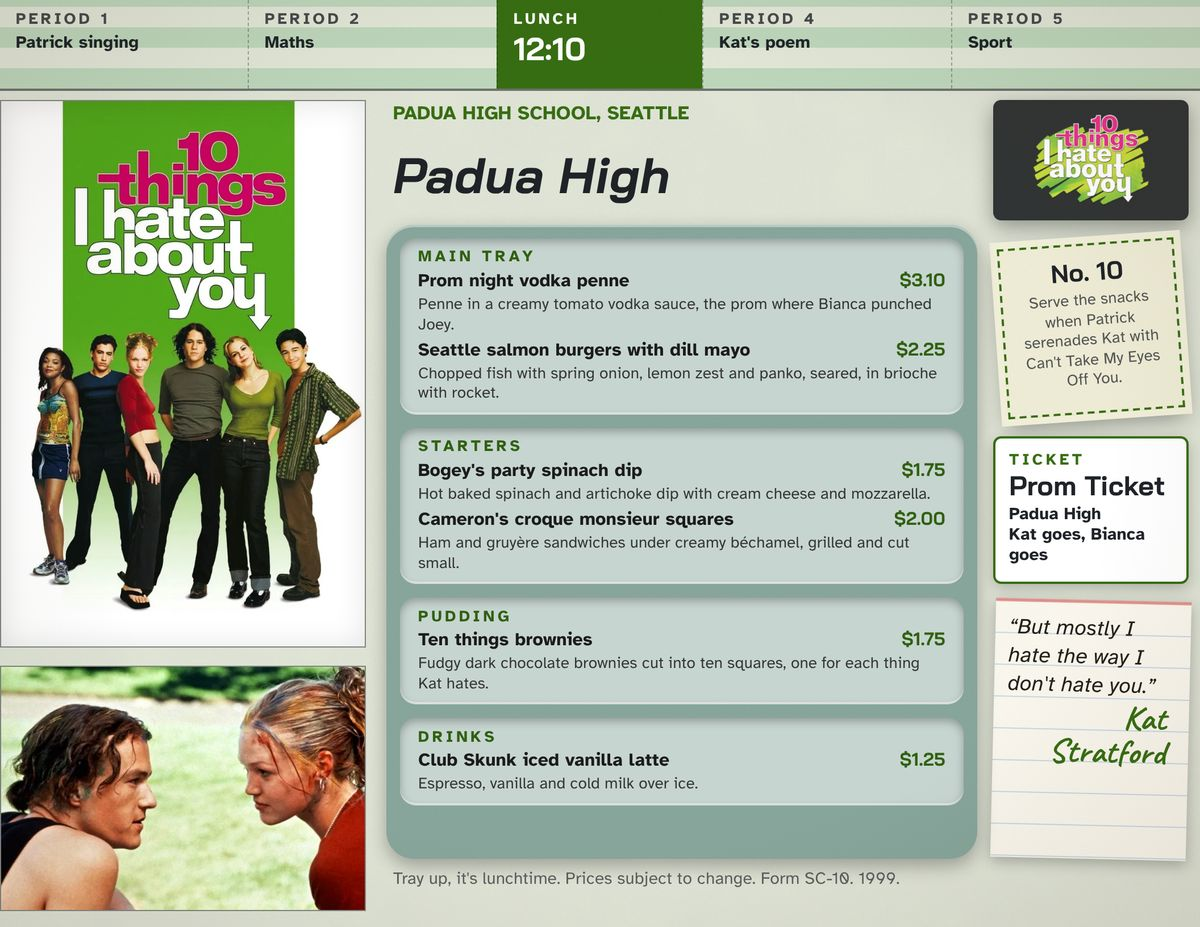
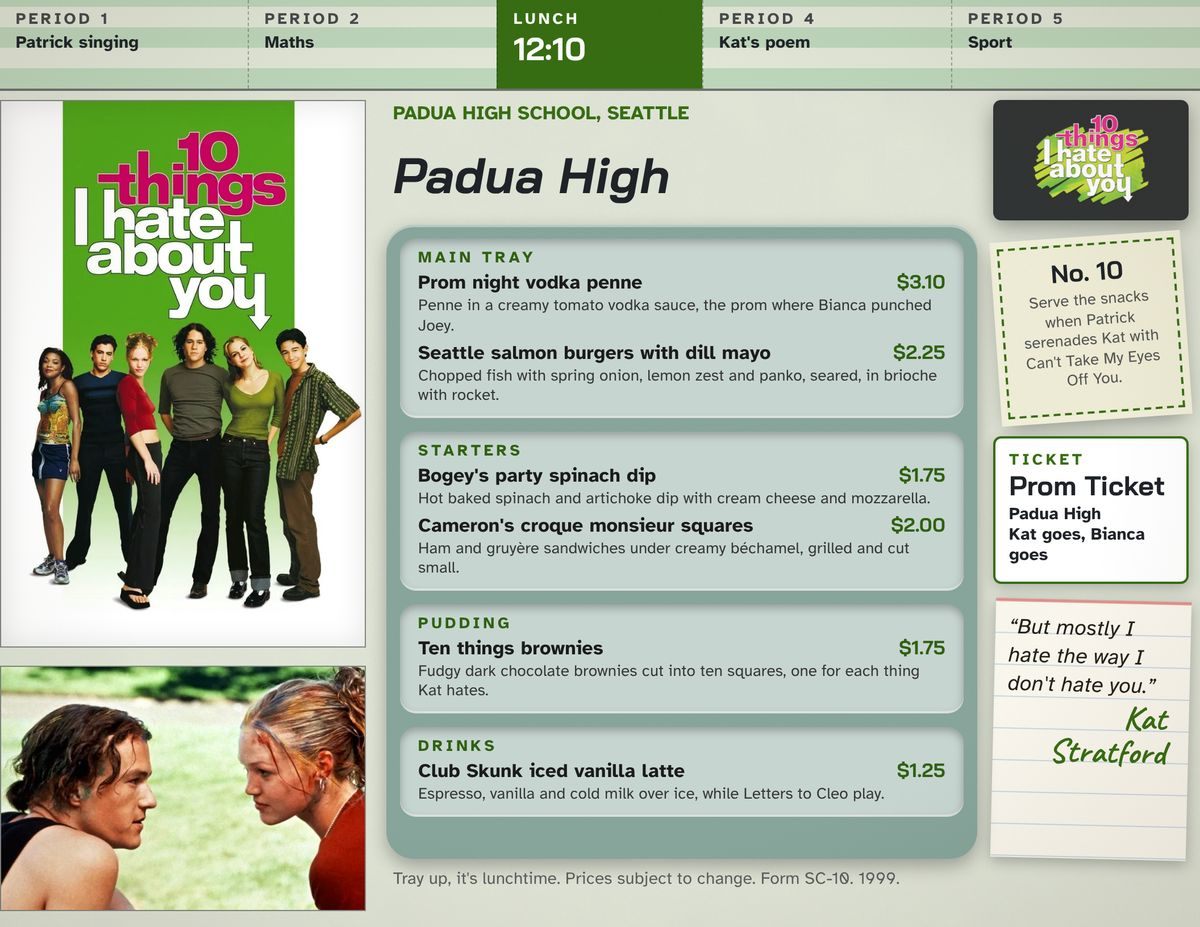
Review 39: checks done, HANDOFF
Claude-Session: https://claude.ai/code/session_01W3UAnAXoqvYGtjTTpoPUh2

Changed region(s): [[0.3392, 0.2718, 0.8017, 0.9061]]

diff --git a/menu/10-things-i-hate-about-you-1999/index.html b/menu/10-things-i-hate-about-you-1999/index.html
@@ -49,7 +49,7 @@ details ul,details ol{margin:8px 0 4px;padding-left:22px}details li{margin:2px 0
 .chips{display:flex;flex-wrap:wrap;gap:8px;list-style:none;padding:0;margin:0}.chips a{display:block;padding:6px 12px;border:1px solid var(--hair);border-radius:999px;text-decoration:none;font-size:15px}
 .letter{font:500 18px/1 "Oswald",sans-serif;color:var(--acc);margin:18px 0 6px}
 footer{border-top:1px solid var(--hair);padding:18px;text-align:center;font-size:13px;color:var(--muted)}footer p{margin:4px 0}</style>
-<script type="application/ld+json">{"@context":"https://schema.org","@graph":[{"@type":"WebPage","@id":"https://reeldinner.com/menu/10-things-i-hate-about-you-1999/","url":"https://reeldinner.com/menu/10-things-i-hate-about-you-1999/","name":"10 Things I Hate About You (1999) movie night dinner menu","description":"10 Things I Hate About You (1999): a movie night menu from Padua High. Recipes for 4 and a printable menu.","inLanguage":"en-AU","isPartOf":{"@type":"WebSite","name":"Reel Dinner","url":"https://reeldinner.com/"},"about":{"@type":"Movie","name":"10 Things I Hate About You","dateCreated":"1999","image":"https://image.tmdb.org/t/p/w500/ujERk3aKABXU3NDXOAxEQYTHe9A.jpg"},"breadcrumb":{"@type":"BreadcrumbList","itemListElement":[{"@type":"ListItem","position":1,"name":"Film menus","item":"https://reeldinner.com/menu/"},{"@type":"ListItem","position":2,"name":"Comedy","item":"https://reeldinner.com/menu/genre/comedy/"},{"@type":"ListItem","position":3,"name":"10 Things I Hate About You (1999)","item":"https://reeldinner.com/menu/10-things-i-hate-about-you-1999/"}]}},{"@type":"ItemList","name":"10 Things I Hate About You (1999) movie night menu","numberOfItems":5,"itemListElement":[{"@type":"ListItem","position":1,"url":"https://reeldinner.com/menu/10-things-i-hate-about-you-1999/#dish-bogey-s-party-spinach-dip","item":{"@type":"Recipe","name":"Bogey's party spinach dip","description":"Hot baked spinach and artichoke dip with cream cheese and mozzarella.","image":["https://reeldinner.com/assets/menu-previews/10-things-i-hate-about-you-1999.jpg"],"author":{"@type":"Organization","name":"Reel Dinner","url":"https://reeldinner.com/"},"recipeCategory":"Appetizer","recipeYield":"4 servings","keywords":"10 Things I Hate About You, movie night, 1999, film menu","prepTime":"PT0M","cookTime":"PT35M","totalTime":"PT35M","suitableForDiet":"https://schema.org/VegetarianDiet","recipeIngredient":["250g cream cheese, softened","100g sour cream","250g frozen spinach, thawed and squeezed dry","1 jar artichoke hearts, drained and chopped","1 garlic clove, crushed","100g mozzarella, grated","1 baguette, sliced and toasted"],"recipeInstructions":[{"@type":"HowToStep","text":"Mix the cream cheese, sour cream, spinach, artichokes, garlic and mozzarella and spoon into a baking dish."},{"@type":"HowToStep","text":"Bake at 190°C until bubbling. Meanwhile slice and toast the baguette."},{"@type":"HowToStep","text":"Serve the dip hot with the toasted baguette."}],"@id":"https://reeldinner.com/menu/10-things-i-hate-about-you-1999/#dish-bogey-s-party-spinach-dip","url":"https://reeldinner.com/menu/10-things-i-hate-about-you-1999/#dish-bogey-s-party-spinach-dip"}},{"@type":"ListItem","position":2,"url":"https://reeldinner.com/menu/10-things-i-hate-about-you-1999/#dish-cameron-s-croque-monsieur-squares","item":{"@type":"Recipe","name":"Cameron's croque monsieur squares","description":"Ham and gruyère sandwiches under creamy béchamel, grilled and cut small.","image":["https://reeldinner.com/assets/menu-previews/10-things-i-hate-about-you-1999.jpg"],"author":{"@type":"Organization","name":"Reel Dinner","url":"https://reeldinner.com/"},"recipeCategory":"Appetizer","recipeYield":"4 servings","keywords":"10 Things I Hate About You, movie night, 1999, film menu","prepTime":"PT7M","cookTime":"PT23M","totalTime":"PT30M","recipeIngredient":["30g butter","1 tbsp plain flour","250ml milk","8 slices white bread","2 tbsp Dijon mustard","200g leg ham","200g gruyère, grated"],"recipeInstructions":[{"@type":"HowToStep","text":"Melt the butter, stir in the flour and cook for a minute. Whisk in the milk and simmer until thick to make the bechamel."},{"@type":"HowToStep","text":"Spread the bread with Dijon and fill with ham and some of the gruyère."},{"@type":"HowToStep","text":"Top with bechamel and the rest of the cheese. Grill until bubbling and golden, then cut into small squares."}],"@id":"https://reeldinner.com/menu/10-things-i-hate-about-you-1999/#dish-cameron-s-croque-monsieur-squares","url":"https://reeldinner.com/menu/10-things-i-hate-about-you-1999/#dish-cameron-s-croque-monsieur-squares"}},{"@type":"ListItem","position":3,"url":"https://reeldinner.com/menu/10-things-i-hate-about-you-1999/#dish-prom-night-vodka-penne","item":{"@type":"Recipe","name":"Prom night vodka penne","description":"Penne in a creamy tomato vodka sauce, the prom where Bianca punched Joey.","image":["https://reeldinner.com/assets/menu-previews/10-things-i-hate-about-you-1999.jpg"],"author":{"@type":"Organization","name":"Reel Dinner","url":"https://reeldinner.com/"},"recipeCategory":"Main course","recipeYield":"4 servings","keywords":"10 Things I Hate About You, movie night, 1999, film menu","prepTime":"PT5M","cookTime":"PT20M","totalTime":"PT25M","suitableForDiet":"https://schema.org/VegetarianDiet","recipeIngredient":["500g penne","3 garlic cloves, crushed","1 tsp chilli flakes","2 tbsp olive oil","400g crushed tomatoes","60ml vodka","200ml thickened cream","100g parmesan, grated","1 cup basil leaves, torn"],"recipeInstructions":[{"@type":"HowToStep","text":"Soften the garlic and chilli in the oil. Add the tomatoes and vodka and simmer."},{"@type":"HowToStep","text":"Stir in the cream until the sauce turns rosy. Meanwhile cook the penne in salted water until al dente."},{"@type":"HowToStep","text":"Toss the pasta through the sauce and finish with parmesan and basil."}],"@id":"https://reeldinner.com/menu/10-things-i-hate-about-you-1999/#dish-prom-night-vodka-penne","url":"https://reeldinner.com/menu/10-things-i-hate-about-you-1999/#dish-prom-night-vodka-penne"}},{"@type":"ListItem","position":4,"url":"https://reeldinner.com/menu/10-things-i-hate-about-you-1999/#dish-ten-things-brownies","item":{"@type":"Recipe","name":"Ten things brownies","description":"Fudgy dark chocolate brownies cut into ten squares, one for each thing Kat hates.","image":["https://reeldinner.com/assets/menu-previews/10-things-i-hate-about-you-1999.jpg"],"author":{"@type":"Organization","name":"Reel Dinner","url":"https://reeldinner.com/"},"recipeCategory":"Dessert","recipeYield":"4 servings","keywords":"10 Things I Hate About You, movie night, 1999, film menu","prepTime":"PT5M","cookTime":"PT40M","totalTime":"PT45M","suitableForDiet":"https://schema.org/VegetarianDiet","recipeIngredient":["200g dark chocolate","150g butter","250g caster sugar","3 eggs","100g plain flour","125g raspberries","50g mixed nuts, chopped","flaky salt, to taste"],"recipeInstructions":[{"@type":"HowToStep","text":"Melt the chocolate and butter together and let it cool slightly. Whisk in the sugar and eggs, then fold in the flour."},{"@type":"HowToStep","text":"Pour into a lined tin and bake at 170°C. Cool completely in the tin."},{"@type":"HowToStep","text":"Cut into ten squares and top each differently with raspberries, nuts, salt flakes or anything you like."}],"@id":"https://reeldinner.com/menu/10-things-i-hate-about-you-1999/#dish-ten-things-brownies","url":"https://reeldinner.com/menu/10-things-i-hate-about-you-1999/#dish-ten-things-brownies"}},{"@type":"ListItem","position":5,"url":"https://reeldinner.com/menu/10-things-i-hate-about-you-1999/#dish-club-skunk-iced-vanilla-latte","item":{"@type":"Recipe","name":"Club Skunk iced vanilla latte","description":"Espresso, vanilla and cold milk over ice, at Club Skunk where Letters to Cleo play.","image":["https://reeldinner.com/assets/menu-previews/10-things-i-hate-about-you-1999.jpg"],"author":{"@type":"Organization","name":"Reel Dinner","url":"https://reeldinner.com/"},"recipeCategory":"Drink","recipeYield":"4 servings","keywords":"10 Things I Hate About You, movie night, 1999, film menu","prepTime":"PT9M","cookTime":"PT8M","totalTime":"PT17M","suitableForDiet":"https://schema.org/VegetarianDiet","recipeIngredient":["80g caster sugar","80ml water","1 vanilla bean, split","250ml very strong coffee, or 4 espresso shots","600ml cold milk","1 bag ice"],"recipeInstructions":[{"@type":"HowToStep","text":"Simmer the sugar, water and vanilla bean for 3 minutes. Cool and remove the bean."},{"@type":"HowToStep","text":"Brew the strong coffee and let it cool."},{"@type":"HowToStep","text":"Shake the coffee with 2 tablespoons of the syrup and a handful of ice until frothy."},{"@type":"HowToStep","text":"Fill four tall glasses with ice and the cold milk, then pour the frothy coffee slowly over the top so it sits in layers."}],"@id":"https://reeldinner.com/menu/10-things-i-hate-about-you-1999/#dish-club-skunk-iced-vanilla-latte","url":"https://reeldinner.com/menu/10-things-i-hate-about-you-1999/#dish-club-skunk-iced-vanilla-latte"}}]}]}</script>
+<script type="application/ld+json">{"@context":"https://schema.org","@graph":[{"@type":"WebPage","@id":"https://reeldinner.com/menu/10-things-i-hate-about-you-1999/","url":"https://reeldinner.com/menu/10-things-i-hate-about-you-1999/","name":"10 Things I Hate About You (1999) movie night dinner menu","description":"10 Things I Hate About You (1999): a movie night menu from Padua High. Recipes for 4 and a printable menu.","inLanguage":"en-AU","isPartOf":{"@type":"WebSite","name":"Reel Dinner","url":"https://reeldinner.com/"},"about":{"@type":"Movie","name":"10 Things I Hate About You","dateCreated":"1999","image":"https://image.tmdb.org/t/p/w500/ujERk3aKABXU3NDXOAxEQYTHe9A.jpg"},"breadcrumb":{"@type":"BreadcrumbList","itemListElement":[{"@type":"ListItem","position":1,"name":"Film menus","item":"https://reeldinner.com/menu/"},{"@type":"ListItem","position":2,"name":"Comedy","item":"https://reeldinner.com/menu/genre/comedy/"},{"@type":"ListItem","position":3,"name":"10 Things I Hate About You (1999)","item":"https://reeldinner.com/menu/10-things-i-hate-about-you-1999/"}]}},{"@type":"ItemList","name":"10 Things I Hate About You (1999) movie night menu","numberOfItems":5,"itemListElement":[{"@type":"ListItem","position":1,"url":"https://reeldinner.com/menu/10-things-i-hate-about-you-1999/#dish-bogey-s-party-spinach-dip","item":{"@type":"Recipe","name":"Bogey's party spinach dip","description":"Hot baked spinach and artichoke dip with cream cheese and mozzarella.","image":["https://reeldinner.com/assets/menu-previews/10-things-i-hate-about-you-1999.jpg"],"author":{"@type":"Organization","name":"Reel Dinner","url":"https://reeldinner.com/"},"recipeCategory":"Appetizer","recipeYield":"4 servings","keywords":"10 Things I Hate About You, movie night, 1999, film menu","prepTime":"PT0M","cookTime":"PT35M","totalTime":"PT35M","suitableForDiet":"https://schema.org/VegetarianDiet","recipeIngredient":["250g cream cheese, softened","100g sour cream","250g frozen spinach, thawed and squeezed dry","1 jar artichoke hearts, drained and chopped","1 garlic clove, crushed","100g mozzarella, grated","1 baguette, sliced and toasted"],"recipeInstructions":[{"@type":"HowToStep","text":"Mix the cream cheese, sour cream, spinach, artichokes, garlic and mozzarella and spoon into a baking dish."},{"@type":"HowToStep","text":"Bake at 190°C until bubbling. Meanwhile slice and toast the baguette."},{"@type":"HowToStep","text":"Serve the dip hot with the toasted baguette."}],"@id":"https://reeldinner.com/menu/10-things-i-hate-about-you-1999/#dish-bogey-s-party-spinach-dip","url":"https://reeldinner.com/menu/10-things-i-hate-about-you-1999/#dish-bogey-s-party-spinach-dip"}},{"@type":"ListItem","position":2,"url":"https://reeldinner.com/menu/10-things-i-hate-about-you-1999/#dish-cameron-s-croque-monsieur-squares","item":{"@type":"Recipe","name":"Cameron's croque monsieur squares","description":"Ham and gruyère sandwiches under creamy béchamel, grilled and cut small.","image":["https://reeldinner.com/assets/menu-previews/10-things-i-hate-about-you-1999.jpg"],"author":{"@type":"Organization","name":"Reel Dinner","url":"https://reeldinner.com/"},"recipeCategory":"Appetizer","recipeYield":"4 servings","keywords":"10 Things I Hate About You, movie night, 1999, film menu","prepTime":"PT7M","cookTime":"PT23M","totalTime":"PT30M","recipeIngredient":["30g butter","1 tbsp plain flour","250ml milk","8 slices white bread","2 tbsp Dijon mustard","200g leg ham","200g gruyère, grated"],"recipeInstructions":[{"@type":"HowToStep","text":"Melt the butter, stir in the flour and cook for a minute. Whisk in the milk and simmer until thick to make the bechamel."},{"@type":"HowToStep","text":"Spread the bread with Dijon and fill with ham and some of the gruyère."},{"@type":"HowToStep","text":"Top with bechamel and the rest of the cheese. Grill until bubbling and golden, then cut into small squares."}],"@id":"https://reeldinner.com/menu/10-things-i-hate-about-you-1999/#dish-cameron-s-croque-monsieur-squares","url":"https://reeldinner.com/menu/10-things-i-hate-about-you-1999/#dish-cameron-s-croque-monsieur-squares"}},{"@type":"ListItem","position":3,"url":"https://reeldinner.com/menu/10-things-i-hate-about-you-1999/#dish-prom-night-vodka-penne","item":{"@type":"Recipe","name":"Prom night vodka penne","description":"Penne in a creamy tomato vodka sauce, the prom where Bianca punched Joey.","image":["https://reeldinner.com/assets/menu-previews/10-things-i-hate-about-you-1999.jpg"],"author":{"@type":"Organization","name":"Reel Dinner","url":"https://reeldinner.com/"},"recipeCategory":"Main course","recipeYield":"4 servings","keywords":"10 Things I Hate About You, movie night, 1999, film menu","prepTime":"PT5M","cookTime":"PT20M","totalTime":"PT25M","suitableForDiet":"https://schema.org/VegetarianDiet","recipeIngredient":["500g penne","3 garlic cloves, crushed","1 tsp chilli flakes","2 tbsp olive oil","400g crushed tomatoes","60ml vodka","200ml thickened cream","100g parmesan, grated","1 cup basil leaves, torn"],"recipeInstructions":[{"@type":"HowToStep","text":"Soften the garlic and chilli in the oil. Add the tomatoes and vodka and simmer."},{"@type":"HowToStep","text":"Stir in the cream until the sauce turns rosy. Meanwhile cook the penne in salted water until al dente."},{"@type":"HowToStep","text":"Toss the pasta through the sauce and finish with parmesan and basil."}],"@id":"https://reeldinner.com/menu/10-things-i-hate-about-you-1999/#dish-prom-night-vodka-penne","url":"https://reeldinner.com/menu/10-things-i-hate-about-you-1999/#dish-prom-night-vodka-penne"}},{"@type":"ListItem","position":4,"url":"https://reeldinner.com/menu/10-things-i-hate-about-you-1999/#dish-ten-things-brownies","item":{"@type":"Recipe","name":"Ten things brownies","description":"Fudgy dark chocolate brownies cut into ten squares, one for each thing Kat hates.","image":["https://reeldinner.com/assets/menu-previews/10-things-i-hate-about-you-1999.jpg"],"author":{"@type":"Organization","name":"Reel Dinner","url":"https://reeldinner.com/"},"recipeCategory":"Dessert","recipeYield":"4 servings","keywords":"10 Things I Hate About You, movie night, 1999, film menu","prepTime":"PT5M","cookTime":"PT40M","totalTime":"PT45M","suitableForDiet":"https://schema.org/VegetarianDiet","recipeIngredient":["200g dark chocolate","150g butter","250g caster sugar","3 eggs","100g plain flour","125g raspberries","50g mixed nuts, chopped","flaky salt, to taste"],"recipeInstructions":[{"@type":"HowToStep","text":"Melt the chocolate and butter together and let it cool slightly. Whisk in the sugar and eggs, then fold in the flour."},{"@type":"HowToStep","text":"Pour into a lined tin and bake at 170°C. Cool completely in the tin."},{"@type":"HowToStep","text":"Cut into ten squares and top each differently with raspberries, nuts, salt flakes or anything you like."}],"@id":"https://reeldinner.com/menu/10-things-i-hate-about-you-1999/#dish-ten-things-brownies","url":"https://reeldinner.com/menu/10-things-i-hate-about-you-1999/#dish-ten-things-brownies"}},{"@type":"ListItem","position":5,"url":"https://reeldinner.com/menu/10-things-i-hate-about-you-1999/#dish-club-skunk-iced-vanilla-latte","item":{"@type":"Recipe","name":"Club Skunk iced vanilla latte","description":"Espresso, vanilla and cold milk over ice, while Letters to Cleo play.","image":["https://reeldinner.com/assets/menu-previews/10-things-i-hate-about-you-1999.jpg"],"author":{"@type":"Organization","name":"Reel Dinner","url":"https://reeldinner.com/"},"recipeCategory":"Drink","recipeYield":"4 servings","keywords":"10 Things I Hate About You, movie night, 1999, film menu","prepTime":"PT9M","cookTime":"PT8M","totalTime":"PT17M","suitableForDiet":"https://schema.org/VegetarianDiet","recipeIngredient":["80g caster sugar","80ml water","1 vanilla bean, split","250ml very strong coffee, or 4 espresso shots","600ml cold milk","1 bag ice"],"recipeInstructions":[{"@type":"HowToStep","text":"Simmer the sugar, water and vanilla bean for 3 minutes. Cool and remove the bean."},{"@type":"HowToStep","text":"Brew the strong coffee and let it cool."},{"@type":"HowToStep","text":"Shake the coffee with 2 tablespoons of the syrup and a handful of ice until frothy."},{"@type":"HowToStep","text":"Fill four tall glasses with ice and the cold milk, then pour the frothy coffee slowly over the top so it sits in layers."}],"@id":"https://reeldinner.com/menu/10-things-i-hate-about-you-1999/#dish-club-skunk-iced-vanilla-latte","url":"https://reeldinner.com/menu/10-things-i-hate-about-you-1999/#dish-club-skunk-iced-vanilla-latte"}}]}]}</script>
 </head>
 <body>
 <header class="top"><a href="/"><img src="/assets/app/icon-72.webp" width="36" height="36" alt="">Reel Dinner</a><span class="nav"><a href="/menu/">All film menus</a></span></header>
@@ -90,7 +90,7 @@ footer{border-top:1px solid var(--hair);padding:18px;text-align:center;font-size
 <details><summary>Recipe for 4</summary><ul><li>200g dark chocolate</li><li>150g butter</li><li>250g caster sugar</li><li>3 eggs</li><li>100g plain flour</li><li>125g raspberries</li><li>50g mixed nuts, chopped</li><li>flaky salt, to taste</li></ul><ol><li>Melt the chocolate and butter together and let it cool slightly. Whisk in the sugar and eggs, then fold in the flour.</li><li>Pour into a lined tin and bake at 170°C. Cool completely in the tin.</li><li>Cut into ten squares and top each differently with raspberries, nuts, salt flakes or anything you like.</li></ol></details></article>
 <h2>Drinks</h2>
 <article class="dish" id="dish-club-skunk-iced-vanilla-latte"><h3>Club Skunk iced vanilla latte<span class="tag">No alcohol</span></h3>
-<p>Espresso, vanilla and cold milk over ice, at Club Skunk where Letters to Cleo play.</p><div class="meta">Prep 9 min, cook 8 min · Make ahead: Syrup up to 1 week, keep chilled</div>
+<p>Espresso, vanilla and cold milk over ice, while Letters to Cleo play.</p><div class="meta">Prep 9 min, cook 8 min · Make ahead: Syrup up to 1 week, keep chilled</div>
 <details><summary>Recipe for 4</summary><ul><li>80g caster sugar</li><li>80ml water</li><li>1 vanilla bean, split</li><li>250ml very strong coffee, or 4 espresso shots</li><li>600ml cold milk</li><li>1 bag ice</li></ul><ol><li>Simmer the sugar, water and vanilla bean for 3 minutes. Cool and remove the bean.</li><li>Brew the strong coffee and let it cool.</li><li>Shake the coffee with 2 tablespoons of the syrup and a handful of ice until frothy.</li><li>Fill four tall glasses with ice and the cold milk, then pour the frothy coffee slowly over the top so it sits in layers.</li></ol></details></article>
 <h2>When to serve</h2>
 <p>Serve the snacks when Patrick serenades Kat with Can't Take My Eyes Off You.</p>

diff --git a/menu/kingsman-the-secret-service-2014/index.html b/menu/kingsman-the-secret-service-2014/index.html
@@ -66,7 +66,7 @@ footer{border-top:1px solid var(--hair);padding:18px;text-align:center;font-size
 </div>
 </div>
 <h2>The printed menu</h2>
-<figure class="preview"><img src="/assets/menu-previews/kingsman-the-secret-service-2014.jpg" width="600" height="791" alt="Printed movie night menu for Kingsman: The Secret Service (2014)" loading="lazy"><figcaption>Open it in Reel Dinner to print it full size.</figcaption></figure>
+<figure class="preview"><img src="/assets/menu-previews/kingsman-the-secret-service-2014.jpg" width="600" height="764" alt="Printed movie night menu for Kingsman: The Secret Service (2014)" loading="lazy"><figcaption>Open it in Reel Dinner to print it full size.</figcaption></figure>
 <h2>Snacks</h2>
 <article class="dish" id="dish-eggsy-s-pub-crackling-and-scotch-eggs"><h3>Eggsy's pub crackling and scotch eggs</h3>
 <p>Pork crackling and sausage wrapped soft eggs, crumbed and fried, with pickled onions.</p><div class="meta">Prep 3 min, cook 57 min · Make ahead: Crackling and eggs up to 4 hours ahead</div>

diff --git a/docs/HANDOFF.md b/docs/HANDOFF.md
@@ -2148,3 +2148,6 @@ Josh: carry on review 39, quick ones first, same rules, checks in chunks, hold t
 - 7 Era and place: about 60 cards (chipotle mayo, chilli and hot honey, sriracha, panko, cold-fermented, whipped ricotta and goat's cheese, butterfly pea, skillet cookie, street corn, elote, poke, bao, chimichurri, jalapeño poppers, salted caramel) swapped per film with substring card-ops so recipes and shopping change too. Local food kept (Mexico, Hawaii, Hong Kong, space films). tests/era-words checks all of them by the year set and now reads the house lines. Smaug trout, Thor at Jane's flat in Greenwich, Ratcliffe's pie. Dish swaps with recipes: Pocahontas cornmeal ashcakes, Great Escape jam drops, Tango & Cash cherry cola, Krampus pork schnitzel (veg: eggplant), Oz toffee apples, Narnia Tumnus's eggs and soldiers (no second sardines), Beethoven and Nutty Professor lemonades (no butterfly pea).
 - 8 Shopping: shopTidy strips "for frying", "pinch", "to grate", "cooled", "for the sauce", "juiced for 90ml", soft butter; a pack line goes beside a measured amount before the merge (oil bottles no longer add up like drinks); condiments get their pack (jar of pickles, bottle of tomato sauce); "salt and cracked black pepper" merges. New shopTidy2: eggs plus the larger of yolks and whites, ice cream by the litre (scoop 60ml), one cheese by the gram (slice 20g), white bread by slice or loaf, the same pack twice. Counted on all 1,000 (shopLines on the film data): for frying 170 to 0, pinch 156 to 10, eggs 78 to 10 (quail and chocolate eggs left), cheese 27 to 2, ice cream 11 to 0, bread 6 to 1. 11 overnight steps set to 480, "(included in cook time)" gone from 10 recipes.
 - 2, 3, 9 Notes, under Josh's fun rule (no scripted cuts): about 700 rewritten by hand. 87 tails and bare lines, 229 restatements of the dish name, about 340 more plot tails (house lines mostly), 21 three-sentence notes, contradictions (Black Widow jam, Rosemary's Baby gimlet, Running Scared prawn fritters, Great Escape lentils), Dreamgirls cut-off. About 80 food-tied gags kept as they were. Hand-built: full stops on 97 notes, She's All That food first. check-touch baseline not rewritten (447 known, 0 new); check-food-first 0; note-length 0.
+- Film pages: render-previews --all (47 min, 3 workers) filled data/card-print.json for all 1,000. check-pages read only films.json for the "on the card" list, so it called every house line missing (1,072): it now counts the printed list and house lines. build-seo drops "(alcohol-free)" from dry page names (the card never prints it). Nine family cards lost cooking alcohol (Batman Returns beer batter, Gremlins and Into the Woods cider gravy, Four Christmases lager and red wine, Deathly Hallows 1 steak and onion pie, Hunchback, It's a Wonderful Life, Krampus punch). check-pages 0.
+- Phone: Things to Do in Denver opened on blank paper. The cue strip grew its square pages to portrait, and cardFaces guessed "portrait pages sit side by side". cardFaces and cueStrip now read stacked or side by side from where the pages sit. check-phone-panels 0 of 1,000 after the fix.
+- Checks (23 Nov, 7:05am to 9:08am, two lanes): all node tests pass, ripple 0 gaps; check-print-text 1,000 in 20 batches of 50, 2 flags fixed (Kingsman footer wink order, A Goofy Movie line shortened) and re-checked; check-menu-fit 1,000 in 8 chunks of 125, 1 flag (Catch Me's "Included" read as a note: the checker now reads it as a pay word); check-price-sense 1,000, 0; check-prep-a4 and check-phone-fit 1,000 in chunks of 100, 0; check-phone-panels 0 of 1,000 (re-run after the Denver fix); cut-notes on a photo-on dump of all 1,000: 4, the 3 known banquet swaps plus 10 Things (shortened, re-checked 0). check-touch 0 new (447 on the baseline, not rewritten). Previews --stale after the last fixes.
